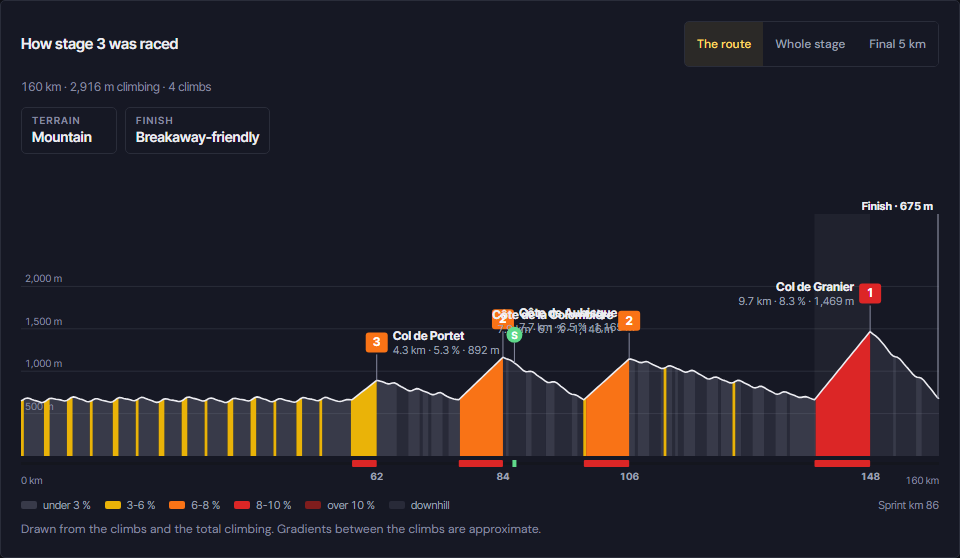
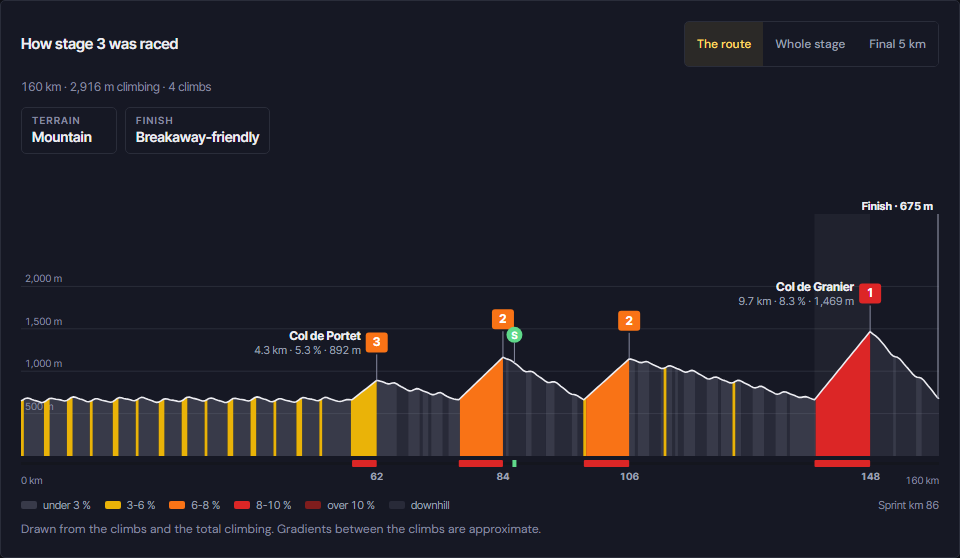
fix(stage-page-v2): stigningsnavne overlapper ikke andre maerker paa profilen (#6570)
Refs #6570

Changed region(s): [[0.5, 0.5484, 0.6562, 0.6093], [0.4062, 0.5789, 0.5312, 0.6398], [0.25, 0.5789, 0.375, 0.6398]]

diff --git a/frontend/src/components/race/stagePageV2/StageProfileV2.tsx b/frontend/src/components/race/stagePageV2/StageProfileV2.tsx
@@ -124,7 +124,35 @@ export default function StageProfileV2({ profile, series, climbs, selectedClimb,
   }
 
   const kmFmt = (v: number) => formatNumber(Math.round(v * 10) / 10, { maximumFractionDigits: 1 });
-  const endLabelW = `${formatNumber(Math.round(D))} km`.length * 6;
+  // Stigningsnavne maa ikke overlappe hinanden eller andre stigningers/spurtens
+  // maerker. Haardeste kategori placeres foerst (HC/1 foer 2 foer 3); hver tekst
+  // proever sin normale side, saa den anden; passer ingen, vises kun maerket.
+  // Bredde anslaas til ca. 7 px pr. tegn (navn, 12 px) og 6,2 px (tal, 11 px).
+  const catRank = (c: Climb) => { const k = categoryLabel(c.category); return k === "HC" ? 0 : Number(k) || 9; };
+  const climbTextSide: Array<"left" | "right" | null> = climbs.map(() => null);
+  {
+    const markers = [
+      ...climbs.map((c) => X(Number(c.crest_km))),
+      ...sprints.map((s) => X(Number(s.km))),
+    ];
+    const placed: Array<[number, number]> = [];
+    const order = climbs.map((_, i) => i).sort((a, b) => catRank(climbs[a]) - catRank(climbs[b]) || a - b);
+    for (const i of order) {
+      const c = climbs[i];
+      const tx = X(Number(c.crest_km));
+      const stats = `${kmFmt(Number(c.length_km))} km · ${kmFmt(Number(c.avg_gradient))} % · ${formatNumber(Math.round(elevationAt(series, Number(c.crest_km))))} m`;
+      const w = Math.max(String(c.name ?? "").length * 7, stats.length * 6.2);
+      const preferred: Array<"left" | "right"> = tx > W * 0.6 ? ["left", "right"] : ["right", "left"];
+      for (const side of preferred) {
+        const box: [number, number] = side === "right" ? [tx + 16, tx + 16 + w] : [tx - 16 - w, tx - 16];
+        const inside = box[0] >= 0 && box[1] <= W;
+        const hitsMarker = markers.some((m) => m !== tx && m + 14 > box[0] && m - 14 < box[1]);
+        const hitsLabel = placed.some(([a, b]) => a < box[1] + 8 && b > box[0] - 8);
+        if (inside && !hitsMarker && !hitsLabel) { climbTextSide[i] = side; placed.push(box); break; }
+      }
+    }
+  }
+  const endLabelW =`${formatNumber(Math.round(D))} km`.length * 6;
   // Hoejde-maerker: kun hvert andet, naar linjerne ligger under 16 px fra hinanden (mobil, smalt baand).
   const gridLabelEvery = grid.length > 1 && Math.abs(Y(grid[0]) - Y(grid[1])) < 16 ? 2 : 1;
 
@@ -187,7 +215,6 @@ export default function StageProfileV2({ profile, series, climbs, selectedClimb,
             const top = Number(c.crest_km);
             const start = Math.max(0, top - Number(c.length_km));
             const tx = X(top), ty = Y(elevationAt(series, top));
-            const rightSide = tx > W * 0.6;
             const cat = categoryLabel(c.category);
             return (
               <g key={`${c.name}-${i}`}>
@@ -204,10 +231,10 @@ export default function StageProfileV2({ profile, series, climbs, selectedClimb,
                     <line x1={tx} x2={tx} y1={ty} y2={ty - 26} stroke="var(--text-3)" strokeWidth={1} />
                     <rect x={tx - 11} y={ty - 48} width={22} height={20} rx={3} fill={cat === "HC" || cat === "1" ? "rgb(var(--climb-grad-4))" : "rgb(var(--climb-grad-3))"} />
                     <text x={tx} y={ty - 34} textAnchor="middle" fontSize={cat === "HC" ? 10 : 12} fontWeight={700} fill="white" className="font-data">{cat}</text>
-                    {!narrow && (
+                    {!narrow && climbTextSide[i] && (
                       <>
-                        <text x={tx + (rightSide ? -16 : 16)} y={ty - 40} textAnchor={rightSide ? "end" : "start"} fontSize={12} fontWeight={700} fill="var(--text-1)" className="font-data">{c.name}</text>
-                        <text x={tx + (rightSide ? -16 : 16)} y={ty - 26} textAnchor={rightSide ? "end" : "start"} fontSize={11} fill="var(--text-2)" className="font-data tabular-nums">
+                        <text x={tx + (climbTextSide[i] === "left" ? -16 : 16)} y={ty - 40} textAnchor={climbTextSide[i] === "left" ? "end" : "start"} fontSize={12} fontWeight={700} fill="var(--text-1)" className="font-data">{c.name}</text>
+                        <text x={tx + (climbTextSide[i] === "left" ? -16 : 16)} y={ty - 26} textAnchor={climbTextSide[i] === "left" ? "end" : "start"} fontSize={11} fill="var(--text-2)" className="font-data tabular-nums">
                           {`${kmFmt(Number(c.length_km))} km · ${kmFmt(Number(c.avg_gradient))} % · ${formatNumber(Math.round(elevationAt(series, top)))} m`}
                         </text>
                       </>

diff --git a/pr-screens/6570-story/card.html b/pr-screens/6570-story/card.html
@@ -1,0 +1,37 @@
+<!doctype html><html><head><meta charset="utf-8">
+<link href="https://fonts.googleapis.com/css2?family=Inter+Tight:wght@400;600;700&family=Bebas+Neue&display=swap" rel="stylesheet">
+<style>
+body{margin:0;background:#07080c;color:#ededf2;font:15px/1.45 "Inter Tight",sans-serif}
+.w{display:grid;grid-template-columns:420px 960px 960px;gap:36px;padding:36px;align-items:start}
+h1{font:400 40px/1 "Bebas Neue";margin:0 0 10px;letter-spacing:.02em}
+.k{font:700 12px "Inter Tight";letter-spacing:.14em;text-transform:uppercase;color:#7ab0fb;margin:0 0 10px}
+p{color:#9da0b3;margin:0 0 12px}
+ol{list-style:none;padding:0;margin:0}li{display:grid;grid-template-columns:30px 1fr;gap:10px;padding:10px 0;border-top:1px solid #2a2d3a;color:#9da0b3}
+li b{color:#ededf2}
+i{font-style:normal;width:24px;height:24px;border-radius:50%;background:#7ab0fb;color:#0e0f15;font:700 12px/24px "Inter Tight";text-align:center;display:block}
+.c{position:relative}.c img{display:block;width:960px;border:1px solid #2a2d3a;border-radius:5px}
+.pin{position:absolute;width:28px;height:28px;border-radius:50%;background:#7ab0fb;color:#0e0f15;font:700 13px/28px "Inter Tight";text-align:center;box-shadow:0 0 0 3px #07080c}
+.tag{display:inline-block;font:700 11px "Inter Tight";letter-spacing:.1em;padding:4px 8px;border-radius:3px;margin-bottom:10px}
+.old{background:#2a2d3a;color:#ededf2}.new{background:#e8c547;color:#1a1f38}
+</style></head><body><div class="w" id="w">
+<div>
+<div class="k">#6570 del 2 · løbshistorien · PR #6643</div>
+<h1>Etapeside 2.0: sådan blev etapen kørt</h1>
+<p>Rigtig prod-etape: Tour des Rives et Cols Vaudois, etape 3 (bjerg, 160 km). Alle tider, huller og sætninger kommer fra etapens løbslog. Siden er bag stage_page_v2 (beta).</p>
+<ol>
+<li><i>1</i><div><b>Tre visninger</b> efter etapen: The route (i dag), Whole stage og Final 5 km.</div></li>
+<li><i>2</i><div><b>Replay på profilen</b>: grupperne som prikker, fører i guld, din gruppe med ring. Scrubber + play.</div></li>
+<li><i>3</i><div><b>Grupperne lige nu</b>: fører, dine grupper, resten samlet ("10 more groups").</div></li>
+<li><i>4</i><div><b>How it unfolded</b>: 70 hændelser kurateret til 8 linjer. Dine ryttere har YOU. Klik hopper i replayet.</div></li>
+<li><i>5</i><div><b>Split times</b>: førerens tid og din bedste rytters hul ved hver top, spurt og mål.</div></li>
+<li><i>6</i><div><b>Report</b>: kort referat, kun hvad loggen viser.</div></li>
+<li><i>7</i><div><b>Final 5 km</b> som TV-grafik: km-skilte, flamme rouge, huller, ur, 6x/12x/30x, sprint close-up fra 500 m.</div></li>
+</ol>
+<p style="margin-top:14px"><b style="color:#ededf2">Uden præcise tider</b> (etaper før 12/10): kun km, ingen huller, Final 5 km skjult med forklaring. Enkeltstart: ruten + resultatlink.</p>
+</div>
+<div class="c"><span class="tag old">I DAG · THE ROUTE</span><img src="desktop-1440-dark-route.png"></div>
+<div class="c"><span class="tag new">NYT · WHOLE STAGE</span><img src="desktop-1440-dark-stage.png">
+<span class="pin" style="left:690px;top:58px">1</span><span class="pin" style="left:-14px;top:320px">2</span><span class="pin" style="left:-14px;top:375px">3</span><span class="pin" style="left:-14px;top:545px">4</span><span class="pin" style="left:426px;top:545px">5</span><span class="pin" style="left:426px;top:885px">6</span>
+<div style="height:24px"></div><span class="tag new">NYT · FINAL 5 KM</span>
+<div class="c"><img src="desktop-1440-dark-final.png"><span class="pin" style="left:-14px;top:90px">7</span></div></div>
+</div></body></html>
